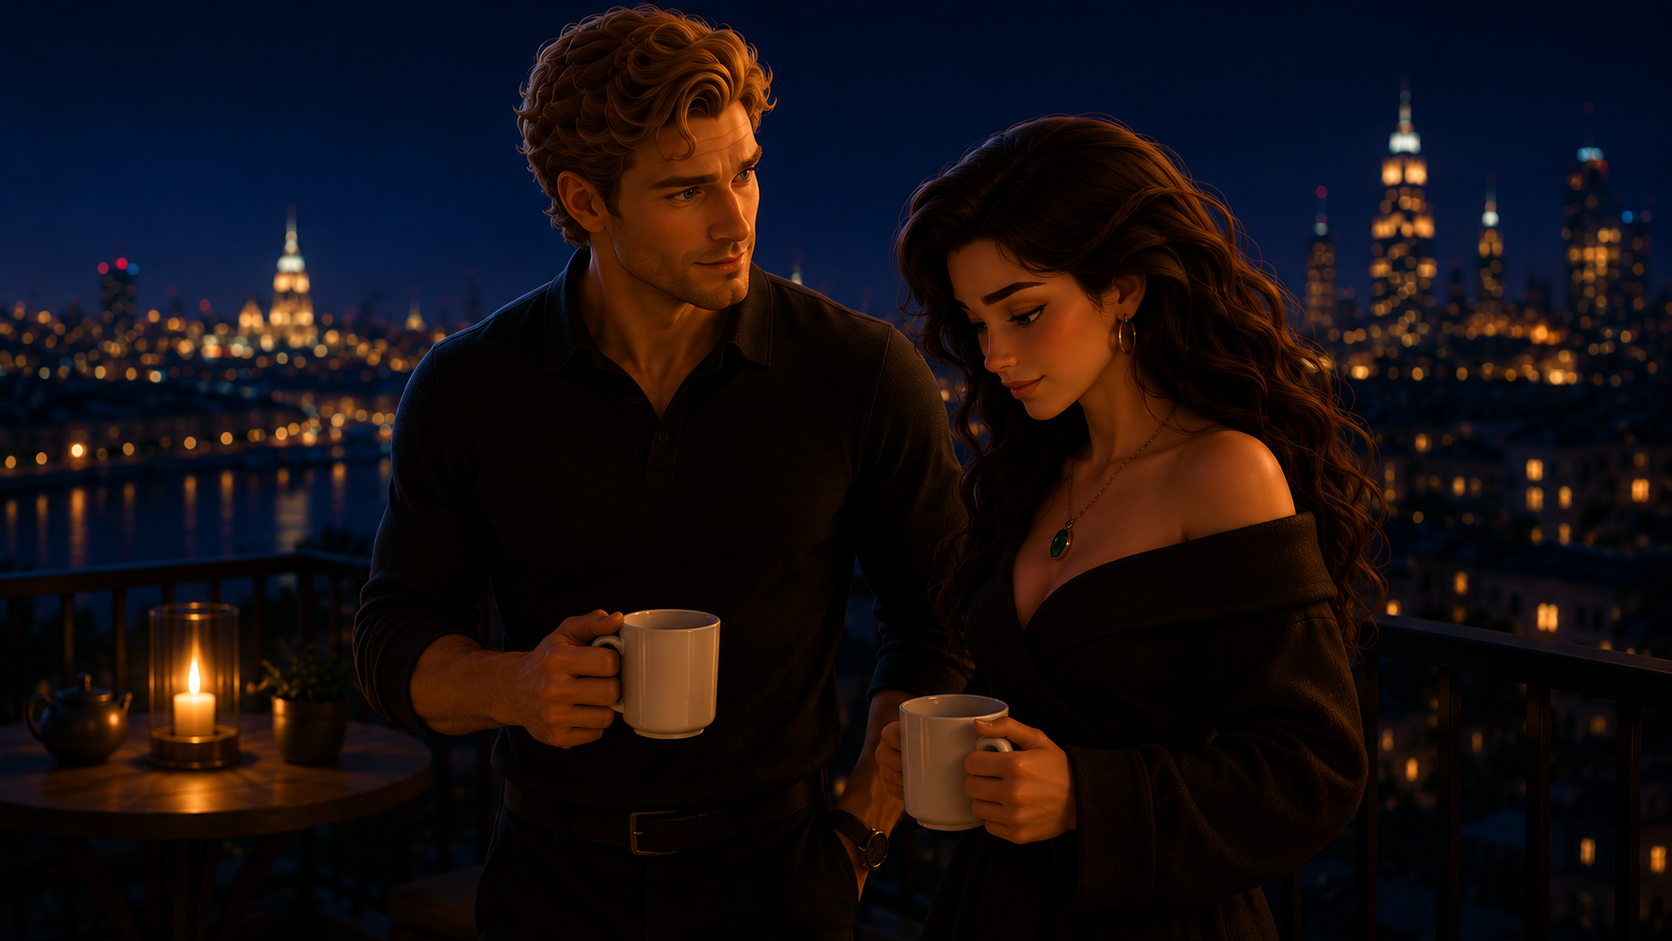
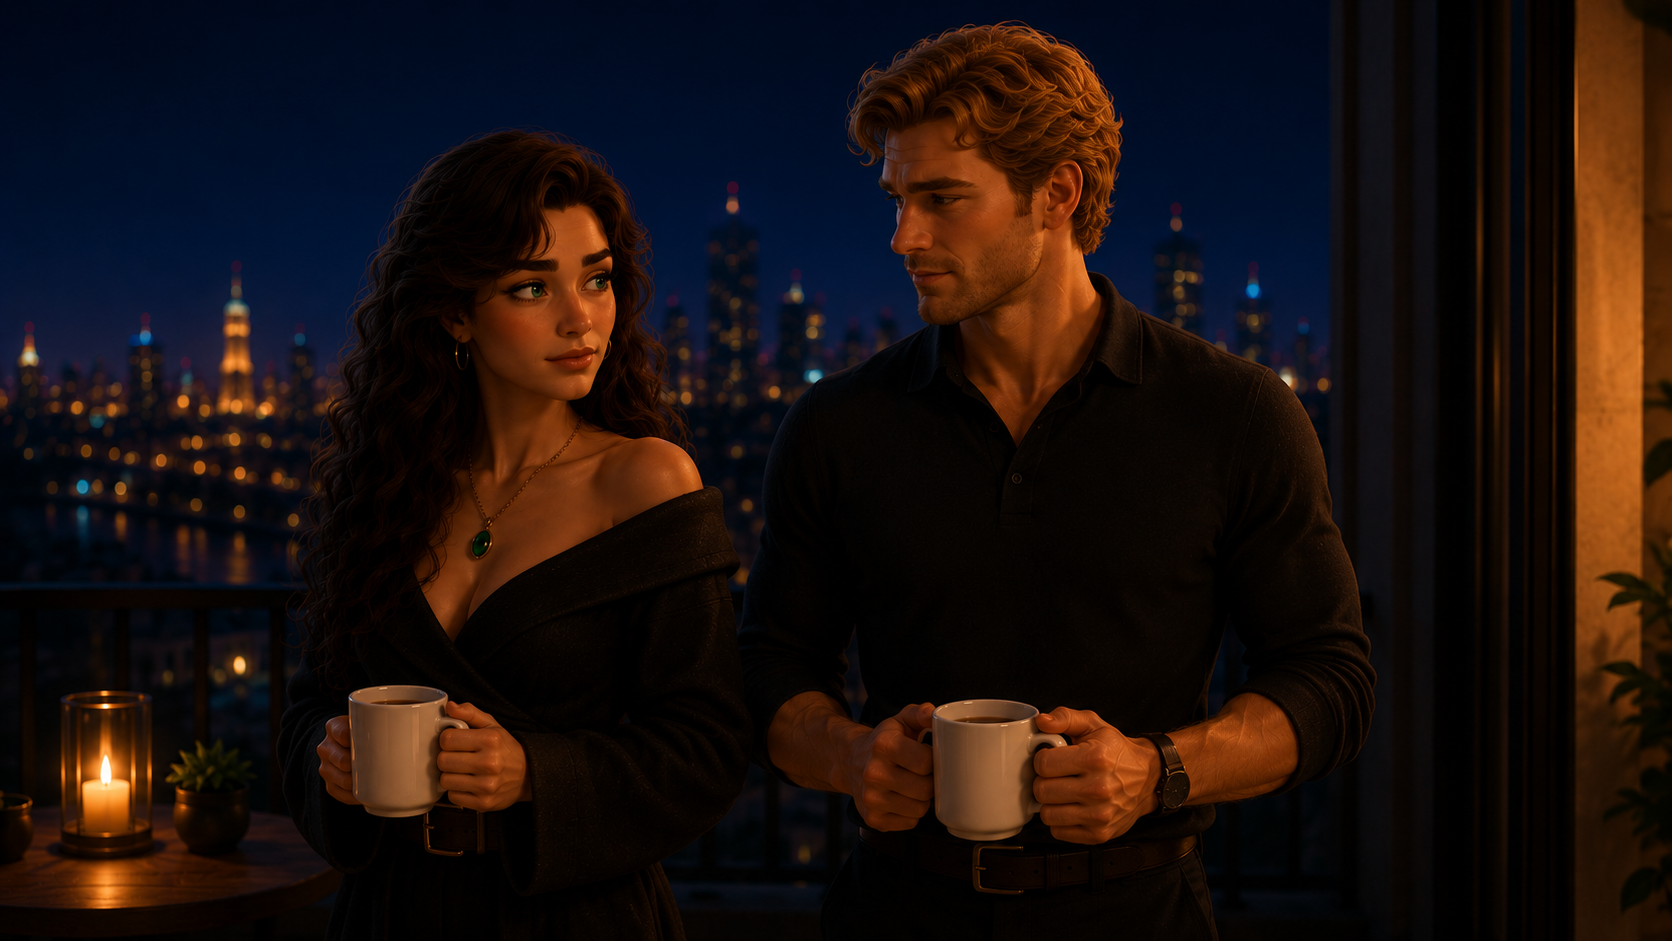
Walk back shot 6c emotion from sustained anxiety to brief flicker
Test render showed Vanessa holding a wide-eyed, anxious expression for
the whole balcony reaction shot instead of a brief flicker, because the
GPT Image starting frame described the "thrown off balance" moment as
the pose itself -- a static reference can't capture a transient beat, so
Kling just held that anxious look for the full clip. Net effect: the
balcony read as already tense before the kitchen scene even started,
undercutting the intended pure-romance/no-reproach contrast.

Reverted the keyframe to warm/tender (matching shot 6b's tone) and moved
the "faintest, sub-second flicker" language into the Kling motion prompt
only, where it belongs as a transient beat rather than a held pose.
Updated Dialogue and Shot List stage directions to match.

diff --git a/Библия/AI Package: Pilot (Episode 1).md b/Библия/AI Package: Pilot (Episode 1).md
@@ -314,22 +314,31 @@ Visual Bible.
 
 ## Shot 6c – Close-up on Vanessa, Thrown Off Balance (Balcony)
 
-- GPT Image prompt: "Close-up of Vanessa, DreamWorks-style 3D animated character, looking at him
-  tenderly, then visibly thrown off balance for a moment — a clear, readable flicker of being
-  unsettled/уncertain crossing her face, gaze slipping toward the city. Dark wavy hair, emerald-green
-  eyes. Warm candlelight highlights her features; cool city lights rim the frame. 85 mm virtual lens,
-  cinematic 3D animated lighting."
+**⚠ Пересмотрено после теста.** Первая версия этого промпта описывала «явную, читаемую вспышку
+растерянности» прямо в GPT Image кадре — а это статичный референс, который становится стартовым (и по
+факту единственным) состоянием лица на весь клип. В результате на реальной генерации Ванесса весь шот
+просидела с тревожным, широко раскрытыми глазами выражением — не вспышка, а устойчивая тревога на
+несколько секунд, из-за чего весь балкон стал читаться так, будто она уже обижена ещё до кухни. Это
+ломает всю задуманную структуру контраста (балкон = чистая романтика, ничего кроме тепла). Ниже —
+исправленная версия: стартовый кадр снова тёплый/нежный, а лёгкая заминка прописана только в
+Kling-промпте как быстрое, мимолётное движение внутри клипа, а не как поза.
 
-- Negative prompt: "No tears, no smiling, no cinematic bloom, no lens distortion, no photoreal
-  rendering."
+- GPT Image prompt: "Close-up of Vanessa, DreamWorks-style 3D animated character, looking at him
+  tenderly and warmly — soft, open, affectionate expression, continuing the warmth from the previous
+  shot. Dark wavy hair, emerald-green eyes. Warm candlelight highlights her features; cool city lights
+  rim the frame. 85 mm virtual lens, cinematic 3D animated lighting."
+
+- Negative prompt: "No tears, no wide/startled eyes, no anxious expression, no cinematic bloom, no lens
+  distortion, no photoreal rendering."
 
 - **Kling input: первый кадр, `sound: on`.** Один говорящий в кадре — чистый случай. Реальная реплика:
   Ванесса — «...Хорошо.» (голос «Sienna»).
 
 - Kling 3.0 Standard prompt: "Hold the close-up of Vanessa, DreamWorks-style 3D animation. She looks at
-  him tenderly, then is visibly thrown off balance for a moment — a clear flicker of being unsettled
-  crossing her face, not just a subtle shift in the eyes — her gaze slips toward the city. Then she says
-  quietly, still a little thrown: '...Хорошо.' Her fingers may drift toward her ring or a strand of
+  him tenderly and warmly for the first second or two — this is the dominant expression of the shot. Only
+  briefly, for less than a second, the faintest flicker of uncertainty crosses her face — barely visible,
+  gone almost as soon as it registers, not a held or lingering expression. Her warmth returns immediately
+  as she says quietly: '...Хорошо.' Her fingers may drift toward her ring or a strand of
   hair — her habitual small gesture when uncertain. Camera static with subtle handheld sway. Maintain
   85 mm virtual lens and shallow depth of field."
 

diff --git a/Библия/Dialogue: Pilot (Episode 1).md b/Библия/Dialogue: Pilot (Episode 1).md
@@ -27,9 +27,10 @@ Bible, эп. 6 «Gaslight»).
 >
 > ЛЕО: Правда. Без тебя я просто хорошо одетый человек. С тобой — я чувствую, что живу.
 >
-> *(она смотрит на него нежно; на миг заметно теряется, взгляд соскальзывает на город)*
+> *(она смотрит на него нежно; на долю секунды едва заметно сбивается, взгляд чуть соскальзывает на
+> город, и тут же снова тепло)*
 >
-> ВАНЕССА *(тихо, растерянно)*: ...Хорошо.
+> ВАНЕССА *(тихо, тепло)*: ...Хорошо.
 
 ### Кухня, утро — сразу конфликт, без вступления. Смысл сцены: Лео считает, что даёт Ванессе так
 ### много, что она обязана терпеть его поведение и меняться под него — но ни разу не говорит это прямо.
@@ -87,11 +88,12 @@ Bible, эп. 6 «Gaslight»).
 
 > ЛЕО: Правда. Без тебя я просто хорошо одетый человек. С тобой — я чувствую, что живу.
 
-**Шот 6c.** Крупный план Ванессы — нежность со вспышкой заметной растерянности.
+**Шот 6c.** Крупный план Ванессы — тепло, с едва заметной, мгновенной заминкой внутри.
 
-> *(она смотрит на него нежно; на миг заметно теряется, взгляд соскальзывает на город)*
+> *(она смотрит на него нежно; на долю секунды едва заметно сбивается, взгляд чуть соскальзывает на
+> город, и тут же снова тепло)*
 >
-> ВАНЕССА *(тихо, растерянно)*: ...Хорошо.
+> ВАНЕССА *(тихо, тепло)*: ...Хорошо.
 
 **Шот 7.** Инсерт — две кружки на балконе, обе почти полные. Без реплик; свет уходит через рассвет в
 утро в рамках этого же крупного плана (см. Shot List).

diff --git a/Библия/Shot List: Pilot (Episode 1).md b/Библия/Shot List: Pilot (Episode 1).md
@@ -126,13 +126,15 @@ Lighting & Color: Тёплый свет свечи на лице.
 Emotion & Purpose: Та же тёплая, подкупающая интонация, что и в шоте 5 — зритель должен ему верить.
 Transition: Кат обратно в шот 6c.
 
-**Шот 6c — Ванесса, растерянность.**
-Description & Blocking: Ванесса смотрит на него нежно, но на миг заметно теряется — лёгкая растерянность
-на лице, взгляд соскальзывает на город, затем тихо: «...Хорошо.»
+**Шот 6c — Ванесса, тепло с мгновенной заминкой.** *(⚠ пересмотрено: первая версия с «явной
+растерянностью» на реальной генерации превратилась в устойчивую тревогу на весь шот — балкон стал
+читаться так, будто Ванесса уже обижена. Тепло — доминанта кадра, заминка едва заметна и мгновенна.)*
+Description & Blocking: Ванесса смотрит на него нежно; на долю секунды едва заметно сбивается, взгляд
+чуть соскальзывает на город — и тут же снова тепло, затем тихо: «...Хорошо.»
 Camera/Movement: Статично, лёгкое дыхание камеры.
 Lighting & Color: Тёплый свет свечи на щеках; холодный контур от городских огней.
-Emotion & Purpose: Показывает внутренний, ещё не осознанный конфликт Ванессы — не чистая радость, а
-растерянность под ней.
+Emotion & Purpose: Тепло и близость — с почти незаметным, мгновенным сбоем, который тут же гаснет; не
+устойчивая тревога.
 Transition: Crossfade в шот 7, разговор затихает.
 
 ### Шот 7 — инсерт кружек (переход ночь → рассвет); 35 мм, только крупный план
